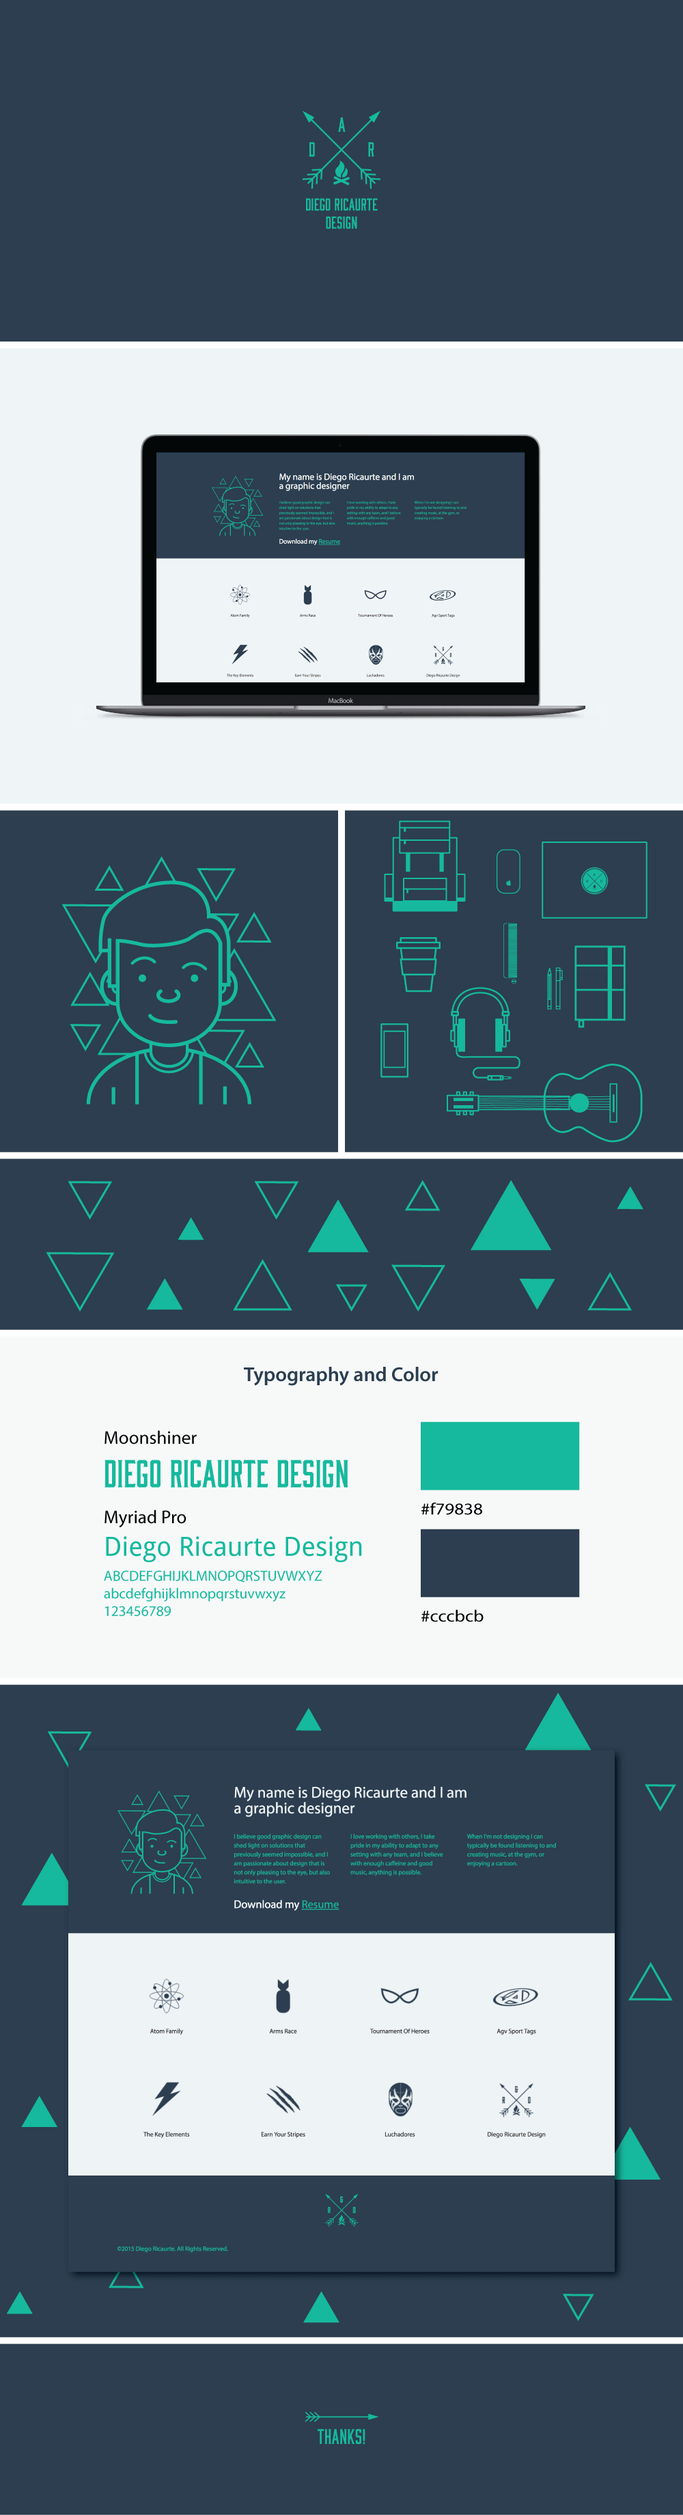
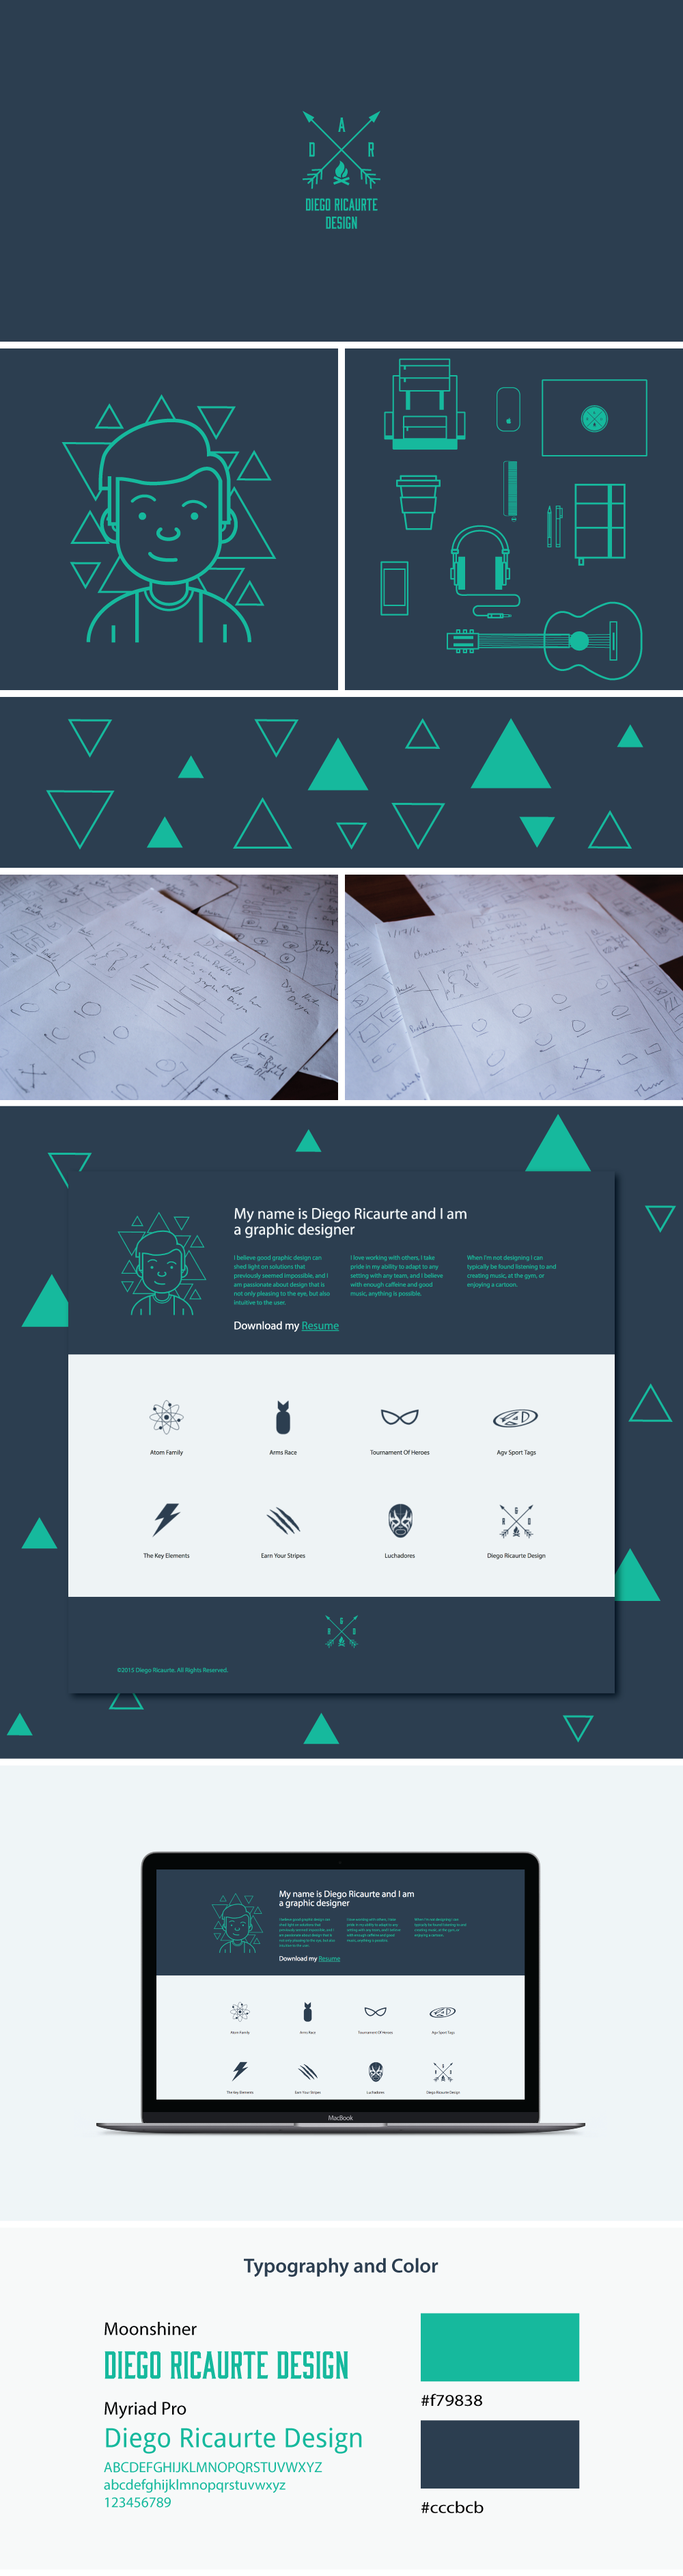
Portfolio Updates + Spacing
Index Spacing fixes, major portfolio upgrades (wireframes, animations)

diff --git a/style/style.css b/style/style.css
@@ -33,7 +33,7 @@ html, body {
 }
 
 .section { 
-  padding: 30px 0 50px 0px; 
+  padding: 60px 0 60px 0px; 
 }
 
 .section h1, .section h2, .section h3, .section h4 {
@@ -51,13 +51,14 @@ html, body {
 
 .section .heading { 
   text-align: center; 
-  padding-bottom: 40px; 
+  padding-bottom: 15px; 
 }
 
 .section .profilePic { 
   text-align: center; 
   margin: 0 auto; 
   float: none; 
+  padding-bottom: 15px;
 }
 
 .section .divider { 
@@ -143,6 +144,17 @@ section .centered {
   top: 0px; 
   left: 0px; 
   z-index: 1000; 
+}
+
+h1, h2, h3, h4 {
+
+	margin-top: 15px;
+	margin-bottom: 15px;
+}
+
+p {
+
+	margin: 0 0 15px;
 }
 
 /*------------------------------------------------------------------
@@ -258,7 +270,7 @@ border-radius: 0px;
 }
 
 .services .services-inner {
-  margin-top: 20px; 
+  margin-top: 0px; 
   -webkit-transition: all 0.3s ease-in, 0s; 
   -moz-transition: all 0.3s ease-in, 0s; 
   -o-transition: all 0.3s ease-in, 0s; 
@@ -267,7 +279,7 @@ border-radius: 0px;
 }
 
 .services .heading {
-  padding:15px;
+  padding:0px;
 }
 
 .service { 
@@ -422,7 +434,7 @@ section.skills h4 {
 .thumb {
   border: 0px;
   margin-bottom: 0px;
-  padding: 5px;
+  padding: 7.5px;
 }
 
 .thumbimage {
@@ -486,7 +498,7 @@ footer {
 }
 
 .padder{
-  padding-top: 15px;
+  padding-top: 0px;
   padding-bottom: 15px;
 
 }
@@ -495,6 +507,7 @@ footer {
   min-width: 125px;
   max-width: 125px;
   float: none;
+  padding-bottom: 15px;
 }
 
 .stamp {
@@ -504,7 +517,7 @@ footer {
 
 
 .socialmedia {
-  padding-bottom: 45px;
+  padding-bottom: 30px;
   padding-top: 15px;
   margin: 0px;
 }

diff --git a/index.php b/index.php
@@ -180,31 +180,31 @@
 					<h2>PORTFOLIO</h2>
 				</div>
 				<div class="col-xs-12 col-sm-6 col-md-4 col-lg-3 thumb">
-	                <a href="gtech-designs-spread.php">
+	                <a href="signature-website-spread.php">
 						<div class="figure cap-bot">
-							<img class="thumbimage img-responsive centered" src="images/portfolio-thumbs/gtech-thumb.png"  alt="">						
+							<img class="thumbimage img-responsive centered" src="images/portfolio-thumbs/signature-website-thumb.png" alt="">					
 							<div class="figcaption">
-								<h5>GTech Designs</h5>
+								<h5>Signature Website</h5>
 							</div>
 						</div>
 					</a>
 	            </div>
-				<!-- <div class="col-xs-12 col-sm-6 col-md-4 col-lg-3 thumb">
-	                <a href="wake-will-spread.php">
+	            <div class="col-xs-12 col-sm-6 col-md-4 col-lg-3 thumb">
+	                <a href="the-key-elements-spread.php">
 						<div class="figure cap-bot">
-							<img class="thumbimage img-responsive centered" src="images/portfolio-thumbs/wake-will-thumb.png" alt="">						
+							<img class="thumbimage img-responsive centered" src="images/portfolio-thumbs/the-key-elements-thumb.png" alt="">					
 							<div class="figcaption">
-								<h5>Wake Will</h5>
+								<h5>The Key Elements</h5>
 							</div>
 						</div>
 					</a>
-	            </div>	     -->        
-				<div class="col-xs-12 col-sm-6 col-md-4 col-lg-3 thumb">
-	                <a href="agv-sport-spread.php">
+	            </div>
+	            <div class="col-xs-12 col-sm-6 col-md-4 col-lg-3 thumb">
+	                <a href="dr-design-spread.php">
 						<div class="figure cap-bot">
-							<img class="thumbimage img-responsive centered" src="images/portfolio-thumbs/agv-sport-thumb.png" alt="">						
+							<img class="thumbimage img-responsive centered" src="images/portfolio-thumbs/dr-design-thumb.png" alt="">						
 							<div class="figcaption">
-								<h5>AGV Sport</h5>
+								<h5>DR Design</h5>
 							</div>
 						</div>
 					</a>
@@ -219,6 +219,28 @@
 						</div>
 					</a>
 	            </div>
+	            
+	            <div class="col-xs-12 col-sm-6 col-md-4 col-lg-3 thumb">
+	                <a href="gtech-designs-spread.php">
+						<div class="figure cap-bot">
+							<img class="thumbimage img-responsive centered" src="images/portfolio-thumbs/gtech-thumb.png"  alt="">						
+							<div class="figcaption">
+								<h5>GTech Designs</h5>
+							</div>
+						</div>
+					</a>
+	            </div>
+				<div class="col-xs-12 col-sm-6 col-md-4 col-lg-3 thumb">
+	                <a href="agv-sport-spread.php">
+						<div class="figure cap-bot">
+							<img class="thumbimage img-responsive centered" src="images/portfolio-thumbs/agv-sport-thumb.png" alt="">						
+							<div class="figcaption">
+								<h5>AGV Sport</h5>
+							</div>
+						</div>
+					</a>
+	            </div>
+	            
 				<div class="col-xs-12 col-sm-6 col-md-4 col-lg-3 thumb">
 	                <a href="arms-race-spread.php">
 						<div class="figure cap-bot">
@@ -230,61 +252,11 @@
 					</a>
 	            </div>
 				<div class="col-xs-12 col-sm-6 col-md-4 col-lg-3 thumb">
-	                <a href="the-key-elements-spread.php">
-						<div class="figure cap-bot">
-							<img class="thumbimage img-responsive centered" src="images/portfolio-thumbs/the-key-elements-thumb.png" alt="">					
-							<div class="figcaption">
-								<h5>The Key Elements</h5>
-							</div>
-						</div>
-					</a>
-	            </div>
-<!-- 				<div class="col-xs-12 col-sm-6 col-md-4 col-lg-3 thumb">
-	                <a href="atom-family-spread.php">
-						<div class="figure cap-bot">
-							<img class="thumbimage img-responsive centered" src="images/portfolio-thumbs/atom-family-thumb.png" alt="">						
-							<div class="figcaption">
-								<h5>Atom Family</h5>
-							</div>
-						</div>
-					</a>
-	            </div> -->
-				<div class="col-xs-12 col-sm-6 col-md-4 col-lg-3 thumb">
-	                <a href="dr-design-spread.php">
-						<div class="figure cap-bot">
-							<img class="thumbimage img-responsive centered" src="images/portfolio-thumbs/dr-design-thumb.png" alt="">						
-							<div class="figcaption">
-								<h5>DR Design</h5>
-							</div>
-						</div>
-					</a>
-	            </div>
-<!-- 				<div class="col-xs-12 col-sm-6 col-md-4 col-lg-3 thumb">
-	                <a href="tournament-of-heroes-spread.php">
-						<div class="figure cap-bot">
-							<img class="thumbimage img-responsive centered" src="images/portfolio-thumbs/tournament-of-heroes-thumb.png" alt="">					
-							<div class="figcaption">
-								<h5>Tournament of Heroes</h5>
-							</div>
-						</div>
-					</a>
-	            </div> -->
-				<div class="col-xs-12 col-sm-6 col-md-4 col-lg-3 thumb">
 	                <a href="photography-spread.php">
 						<div class="figure cap-bot">
 							<img class="thumbimage img-responsive centered" src="images/portfolio-thumbs/photography-thumb.png" alt="">						
 							<div class="figcaption">
 								<h5>Photography</h5>
-							</div>
-						</div>
-					</a>
-	            </div>
-	            <div class="col-xs-12 col-sm-6 col-md-4 col-lg-3 thumb">
-	                <a href="signature-website-spread.php">
-						<div class="figure cap-bot">
-							<img class="thumbimage img-responsive centered" src="images/portfolio-thumbs/signature-website-thumb.png" alt="">					
-							<div class="figcaption">
-								<h5>Signature Website</h5>
 							</div>
 						</div>
 					</a>
@@ -297,14 +269,14 @@
 	<footer class="section">
 	  <div class="container">
 	    <div class="row">
-	          <div class="col-xs-12 padder">
+	          <div class="col-xs-12 ">
 	              <div class="col-xs-2 stampcontainer center-block">
 	                <a href="#welcome" class="scrollto">
 	                  <img class="stamp centered" src="images/badge.svg" alt="">
 	                </a>
 	              </div>
 	          </div> 
-	        <div class="col-xs-12 padder">
+	        <div class="col-xs-12">
 	          <ul class= "socialmedia">
 	            <li><a target="_blank" class="facebook" href="https://www.facebook.com/diegoricaurtedesign/"></a></li>
 	            <li><a target="_blank" class="linkedin" href="https://www.linkedin.com/in/diego-ricaurte-91b41563/"></a></li>

diff --git a/signature-website-spread.php b/signature-website-spread.php
@@ -11,12 +11,17 @@
         <div class= "col-xs-8 centered">
           <div class="portfolioitemtext heading">
             <h2>Signature Website</h2>
-            <h4> Brand / Icons / Illustration / Website <h4> 
-            <p> After graduating from Cornell, I decided to take some time to fine tune my digital design skills. After versing myself in multiple coding languages, I decided to construct my own website to showcase these improved skills as well as my work. My goal was to give the viewer a feel not only for who I am as a designer, but also as a person. The website you are on right now, as well as all of its collateral, was designed and hand coded by yours truly. <p> 
+            <h4> Brand / Digital / UI <h4> 
+              <p> <b> Objective: </b> After graduating from Cornell, I decided to take some time to fine tune my digital design skills. I versed myself in multiple coding languages, with the goal being to construct my own website that showcased these new skills as well as my portfolio. The site was to give the viewer a feel not only for who I am as a designer, but also as a person. </p>
+              <p> <b> Challenge: </b> The challenge in creating this website was in the importance of simplicity. The average viewer might only spend seconds on the site, so ease of navigation and clean design are a must. Furthermore, the design needs to house a variety of portfolio pieces, which calls for design choices that mesh with many different brands and styles. Last but most certainly not least, the site needed to be memorable and unique, as to prevent it from being glossed over by any potential employer. </p>
+              <p> <b> Solution: </b> The website you are on right now, as well as all of its collateral, was designed and hand coded by yours truly. Its been designed to immerse the viewer into my world of design, and give a sense of my environment, personality, and design preference. The responsive interface prioritizes a user-friendly experience, and maintains a clean, simple aesthetic that is up to date with today's digital design standards. The portfolio pages are purposefully simple in order to not interfere with the themes of the different portfolio pieces. With my resume, skill set, and work samples never more than a click away, diegoricaurte.website is your one stop for everything you need to know about your next star employee. </p> 
           </div>
         </div>
       </div>
       <div class= "row">
+        <div class= "col-xs-8 centered">
+          <img class= "portfolioheadergif" src="images/portfolio-spreads/signature_header_animation.gif" title= "Signature Header Animation" alt= "signaturewebsite">
+        </div>
         <div class= "col-xs-8 centered">
           <img class= "portfoliopicture" src="images/portfolio-spreads/signature-website-spread.png" title= "Signature Website Spread" alt= "signaturewebsite">
         </div>

diff --git a/the-key-elements-spread.php b/the-key-elements-spread.php
@@ -11,15 +11,19 @@
         <div class= "col-xs-8 centered">
           <div class="portfolioitemtext heading">
             <h2>The Key Elements</h2>
-            <h4> Brand / Print / Cothing / Illustration <h4> 
-            <p> During my time at Cornell University, I was a member of The Key Elements co-ed a cappella group. Soon after joining,
-            I took on the responsibility of "Head of Creativity". In this position, I reinvented the groups branding image 
-            using print and online materials. I am proud to say that during my tenure, concert and audition attendance reached an all time
-            high. The following are examples of some of my work. <p> 
+            <h4> Brand / Digital / UI </h4> 
+            <p> <b> Objective: </b> During my time at Cornell University, I was a member of The Key Elements co-ed a cappella group, and the group's Head of Creative Design. As such, my primary objective was to revamp The Key Elements branding image, which at the time was both outdated and focused on the rock music genre, effectively alienating a good portion of the Cornell population.
+            <p/>
+            <p> <b> Challenge: </b> Creating an image with an appeal wide enough for the entire Cornell population is no small task. The new brand needed to be attractive to all viewers, regardless of music preference or gender, in order to maximize audition and concert attendance. Furthermore, the new image would also need the approval to the members currently in the group. Lastly, this rebrand had to set the Key Elements apart from any of the other 20+ singing groups on campus</p>
+            <p><b> Solution: </b> The newly designed logo maintains the core 'bolt' motif of the original imaging, and adds a musical component in order to stay true to the nature of the group. The hand coded, user and mobile friendly website utilizes a simple scroll-through structure, and navigates the user through the groups members, music, merchandise. The overall tone of the website is neutral and people-focused, allowing the personality of the group to shine through, and creates a genuine experience of The Key Elements A Cappella. <p/> 
           </div>
+
         </div>
       </div>
       <div class= "row">
+        <div class= "col-xs-8 centered">
+          <img class= "portfolioheadergif" src="images/portfolio-spreads/keheaderanimation.gif" title= "The Key Elements Header Animation" alt= "signaturewebsite">
+        </div>
         <div class= "col-xs-8 centered">
           <img class= "portfoliopicture" src="images/portfolio-spreads/the-key-elements-spread.png" title= "The Key Elements Spread" alt= "thekeyelements">
         </div>

diff --git a/dr-design-spread.php b/dr-design-spread.php
@@ -11,20 +11,22 @@
         <div class= "col-xs-8 centered">
           <div class="portfolioitemtext heading">
             <h2>DR Design</h2>
-            <h4> Brand / Icons / Illustration / Website <h4> 
-            <p> DR Design is the first iteration of my design brand. It uses a flat, modern, minimalistic style with a focus on outlines. When deciding
-            on the theme of my website and portfolio, I wanted something up to date and in tune with the current online 
-            design trends, as well as something personal and eye catching. As a result, I made my illustrations
-            in a bold digital blue, and personalized the brand with an initaled logo as well as a self portrait of sorts.
-            Alternate art included may of what I consider to be my "essentials" in my graphic and web design work. The website itself is hand coded by 
-            yours truly.
-             <p> 
+            <h4> Brand / Digital / UI </h4> 
+            <br>
+            <p> <b> Objective: </b> DR Design is the first iteration of my design brand. The objective of this project was to create a simple, modern, and user friendly landing page that focuses the user on the design portfolio. </p> 
+
+            <p> <b> Challenge: </b> As with any portfolio, the biggest challenge to overcome is standing out amongst a large pool of talented applicants. This site would have to be highly personal, unique, eye catching, and of course, memorable. </p>
+            
+            <p> <b> Solution: </b> The resulting hand-coded website utilizes a grid layout with a simple page structure consisting of a landing page that links to each individual portfolio piece, as well as a resume. The color palette consists of different shades of digital blue, with a brighter shade highlighting user focus. Personalized icons are used throughout the site in order to create a unique style that is simple enough not to detract from the variety of styles presented on the portfolio pages.</p> 
           </div>
         </div>
       </div>
       <div class= "row">
         <div class= "col-xs-8 centered">
           <img class= "portfoliopicture" src="images/portfolio-spreads/dr-design-spread.png" title= "DR Design Spread" alt= "drdesign">
+        </div>
+        <div class= "col-xs-8 centered">
+          <img class= "portfoliofootergif" src="images/portfolio-spreads/drdesign_footer_animation.gif" title= "DR Design Spread Footer Animation" alt= "signaturewebsite">
         </div>
       </div>
     </div> 

diff --git a/superstar-fitness-spread.php b/superstar-fitness-spread.php
@@ -11,8 +11,12 @@
         <div class= "col-xs-8 centered">
           <div class="portfolioitemtext heading">
             <h2>Tapout: Superstar Fitness</h2>
-            <h4> Brand / Icons / App / Website <h4> 
-            <p> Every WWE Superstar plays a myriad of roles, from in-ring warrior, to actor, to athlete, and of course, role model. WWE Superstar fitness is a concept expansion of the Tapout brand, and a way for the stars of the WWE to interact with their fans on the fitness landscape, encouraging them follow along on a road to increased health. Superstar Fitness allows any fan to see exactly how their favorite superstar is maintining their workout regimen, and encourages them to follow along in their footsteps, day by day.<p> 
+            <h4> Brand / Digital / UI <h4> 
+            <p> <b> Objective: </b> Every WWE Superstar plays a myriad of roles, from in-ring warrior, to actor, to athlete, and of course, role model. WWE Superstar Fitness is a concept expansion of the Tapout brand, with the objective of allowing the superstars of the WWE to interact with their fans on the fitness landscape. The platforms purpose is to encourage WWE fans to follow their idols on a road to better health. </p>
+
+            <p> <b> Challenge: </b> To expand upon any brand, one has to be conscious of the design standards already in place. While the expansion should of course be innovative and bring new ideas to the table, it also has to integrate seamlessly into the current interface structure. </p>
+
+            <p> <b> Solution: </b> My concept expansion builds upon the current website structure, and expands upon the current brand style. Each month the user is presented with four different superstars. Each superstar has a personalized fitness page, where the user can follow their daily routines, and a weekly vlog for a more dynamic look. Through the desktop and mobile interface, Superstar Fitness allows any fan to see exactly how their favorite superstar is maintaining their workout regimen, and encourages them to follow along in their footsteps, day by day.</p> 
           </div>
         </div>
       </div>

diff --git a/gtech-designs-spread.php b/gtech-designs-spread.php
@@ -12,10 +12,12 @@
           <div class="portfolioitemtext heading">
             <h2>Gtech Designs</h2>
             <h4> Brand / Print / Web <h4> 
-            <p> During my semester off, I was offered the opportunity to work with Gtech Designs in Baltimore and was able to gain experience in to the culture of a burgeoning startup. 
-            I was given the responsibility to spearhead initial graphic branding of original print and advertisement materials, work with associated non profits in their branding endeavors,
-            and restructure Gtech's image for their new marketing portfolio. 
-             <p> 
+            <p> <b> Objective: </b>While working with GTECH Designs I was able to gain experience in to the culture of a burgeoning startup. My primary objective during my internship was to spearhead a rebranding, creating a uniform image across web and print in order to launch a new marketing portfolio targeted toward potential clients looking to rebrand their own materials.. 
+            <p> 
+
+            <p> <b> Challenge: </b> While being given control of a rebranding across multiple platforms is a terrific creative opportunity, it of course presents it's fair share of challenges. My primary two assignments were a new multipage brochure and a new landing page, and I was tasked with conceptualizing a design that could span both mediums while maintaining a consistent branding image.</p>
+
+            <p> <b> Solution: </b> My rebranding expanded on the purple logo of GTECH Designs. Both the website and the pamphlet utilized a flat, modern style that visually guides the viewer through a journey of what GTECH strives to be, highlighted with GTECH purple accents. The viewer is guided through GTECH's past work, as well as ways to interact further with the company. The site and print materials serve as an example for what GTECH can accomplish for its clients; a clean, modern, and story driven design style that is clean enough to be credible, but personal enough to be trusted.</p> 
           </div>
         </div>
       </div>

diff --git a/agv-sport-spread.php b/agv-sport-spread.php
@@ -11,8 +11,13 @@
         <div class= "col-xs-8 centered">
           <div class="portfolioitemtext heading">
             <h2>AGV SPORT</h2>
-            <h4> Icons / Brand / Product / Print <h4> 
-            <p> AGV Sports group is a company that makes gear for bike riders. During the internship there, my primary project was designing the new line of "hang tags" that will be attached to new products in 2014. The project involved creating approximately 75 tags for all lines of riding products. Each tag required individualized text and icons. Additional tags were also designed for a separate group of "Kevlar-reinforced" products.  <p> 
+            <h4> Brand / Product / Icon / Print <h4> 
+            <br>
+            <p> <b> Objective: </b> AGV Sports group is a company that makes gear for bike riders. My primary project was designing the new line of "hang tags" that will be attached to new products in 2014. </p>
+
+            <p> <b> Challenge: </b>The primary challenge was designing a tag that could accompany a myriad of different products - helmets, gloves, suits, boots, jeans - while still maintaining a consistent brand image. All in all, this tag design would accompany a total of 75 different riding products. </p>
+
+            <p> <b> Solution: </b> My solution to this design challenge was a tag that utilized an icons and brief descriptions, customized to each individual product. The tags would utilize a bold orange hue to catch the eye of the customer as well as define a unique and recognizable brand. Over 20 different icons and descriptions were used to customize this new design format according to each product's specifications.  </p> 
           </div>
         </div>
       </div>

diff --git a/photography-spread.php b/photography-spread.php
@@ -13,7 +13,7 @@
             <h2>Photography</h2>
             <h4> Freelance <h4> 
             <p> Initially a craft learned in order to document my work, photography has become one of my favorite passtimes. It forces
-            me to pause and take in my surroundings, as well as allow me to capture moments and make them something more defined. Here is some of 
+            me to pause and take notice of my surroundings, and allows me to define moments of clarity. Here is some of 
             my freelance photography. <p> 
           </div>
         </div>
